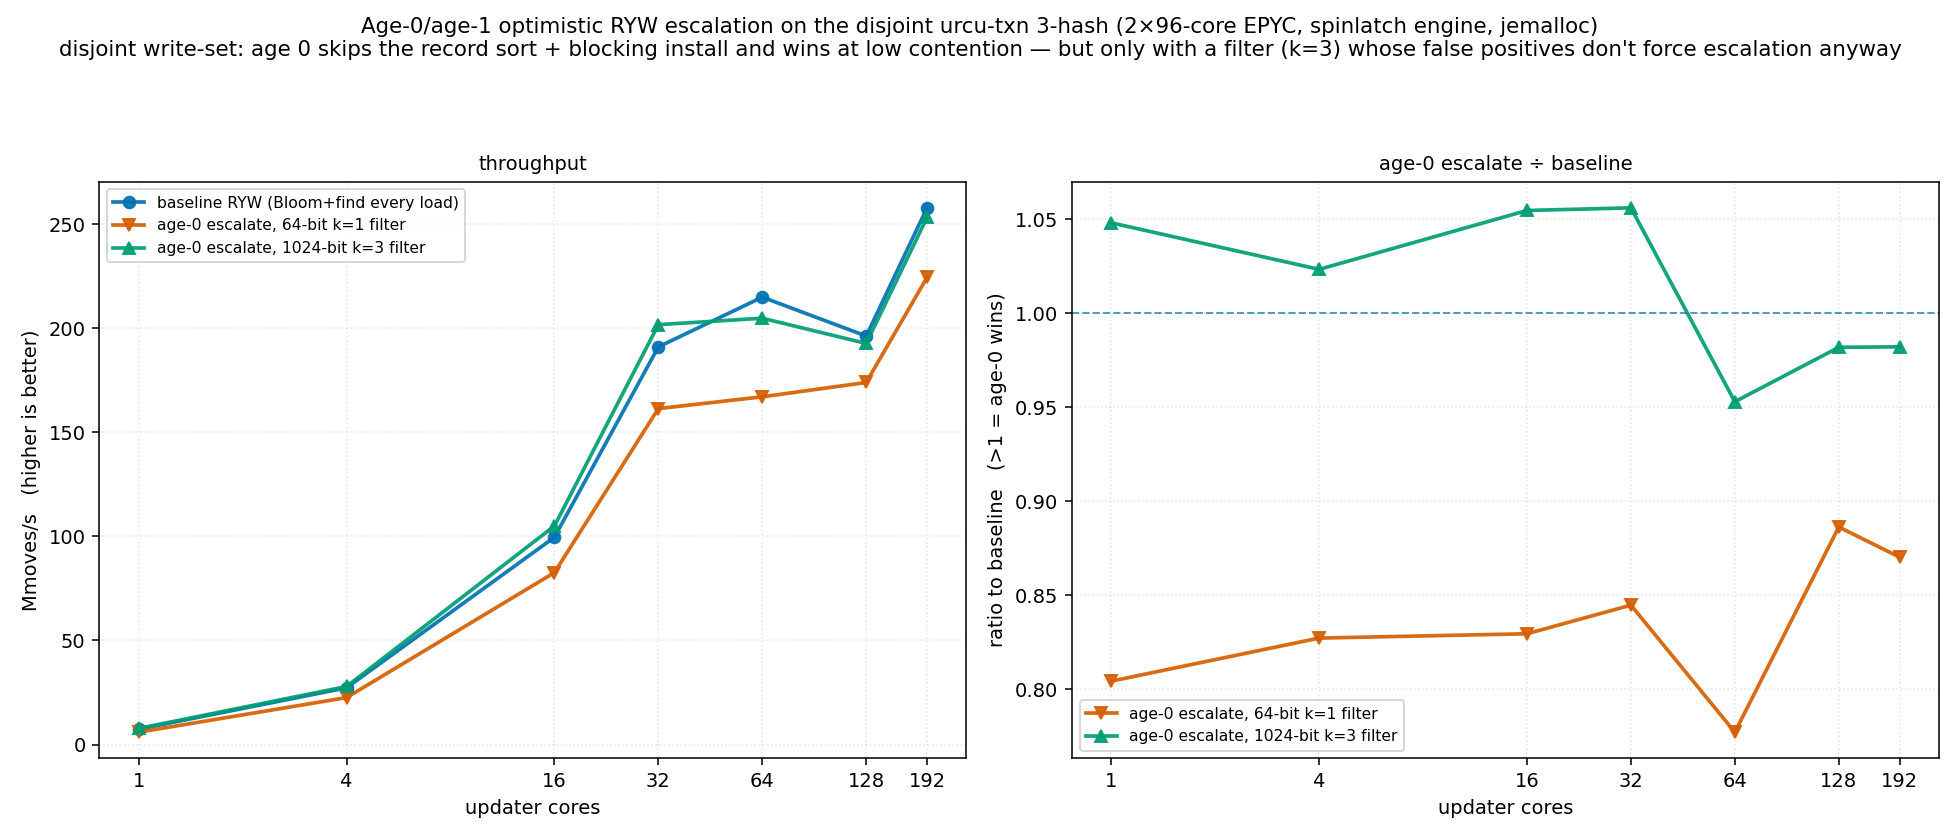
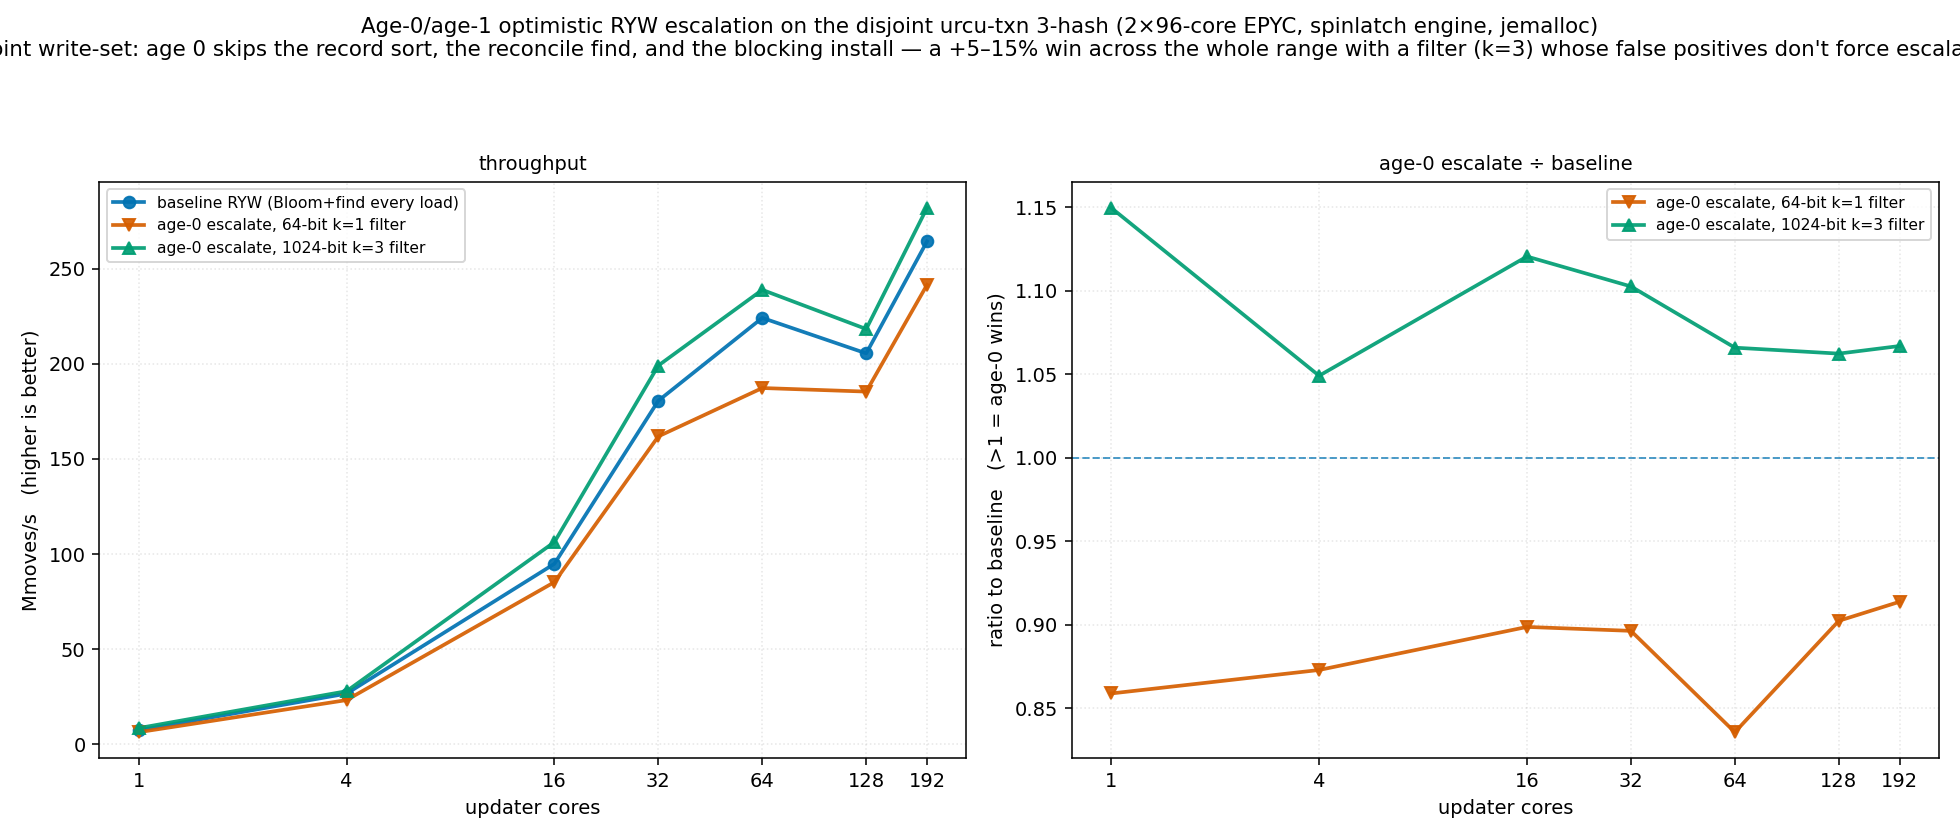
bench_txn_3hash: age-0 blind append folds into AGE_ESCALATE (figure refresh)
The engine now appends the age-0 store blind, skipping the reconcile find (the
O(nr) write-set scan run on every store) -- redundant at age 0 because
esc_pending already discards any same-slot coincidence before install.  It is
folded into -DURCU_TXN_AGE_ESCALATE, so esc-dumb and esc-smart pick it up with no
new flag.  Re-swept the disjoint 3-hash positive half on the synced engine clone
(56ef2509) and regenerated the figure.

The story changed: esc-smart now wins 1.05-1.15x across the WHOLE core range and
no longer fades to parity at 64-192 -- it holds 1.06-1.07x there.  The find scan
that the blind append removes was the dominant age-0 self-time (~19.5% at 32
cores, ~17% at 192, per perf) and is contention-independent, so the win survives
the cross-socket escalation storm.  esc-dumb still loses 0.84-0.91x everywhere
(the k=1 filter false-positives on contiguous bucket-head addresses -- the
filter, not the mechanism, is what sinks it).

Conservation passes at every core count (95040 keys, 100% reader hit).

diff --git a/scripts/plot_age_escalate_hash.py b/scripts/plot_age_escalate_hash.py
@@ -10,11 +10,18 @@ escalation is a Bloom false positive:
   - esc-dumb  (64-bit k=1) trips on ~all commits -- contiguous calloc'd bucket-head
     addresses collide in a single-bit filter -- so it escalates everything and loses.
   - esc-smart (1024-bit k=3) drives false positives toward zero, so age 0 almost
-    always reaches install and skips the ~O(nr) record sort + blocking install.
+    always reaches install and skips the O(nr) record sort, the O(nr) reconcile
+    find (the write-set scan on every store), and the blocking install.
 
-Left: absolute throughput.  Right: ratio to baseline, where the small effect is
-legible -- age 0 wins at low-moderate contention (install collisions rare) and
-fades to parity as core count rises (fail-fast escalations return).
+The reconcile-find skip is the age-0 blind append now folded into AGE_ESCALATE:
+at age 0 esc_pending already discards any same-slot coincidence before install,
+so the find is redundant and the store just appends.  That scan was the dominant
+age-0 self-time and is contention-independent, so it lifts the WHOLE curve.
+
+Left: absolute throughput.  Right: ratio to baseline.  Age 0 now wins across the
+entire range -- +5 to +15% -- rather than fading to parity at high core counts as
+it did before the blind append: it holds +6-7% at 64-192 where the sort/find skip
+still pays even as install collisions reintroduce some escalation.
 """
 import csv, os
 import matplotlib
@@ -71,9 +78,9 @@ for ax in (ax1, ax2):
 
 fig.suptitle("Age-0/age-1 optimistic RYW escalation on the disjoint urcu-txn 3-hash "
              "(2×96-core EPYC, spinlatch engine, jemalloc)\n"
-             "disjoint write-set: age 0 skips the record sort + blocking install and "
-             "wins at low contention — but only with a filter (k=3) whose false "
-             "positives don't force escalation anyway",
+             "disjoint write-set: age 0 skips the record sort, the reconcile find, and "
+             "the blocking install — a +5–15% win across the whole range with a filter "
+             "(k=3) whose false positives don't force escalation",
              fontsize=11)
 fig.tight_layout(rect=[0, 0, 1, 0.92])
 os.makedirs(os.path.dirname(OUT), exist_ok=True)
